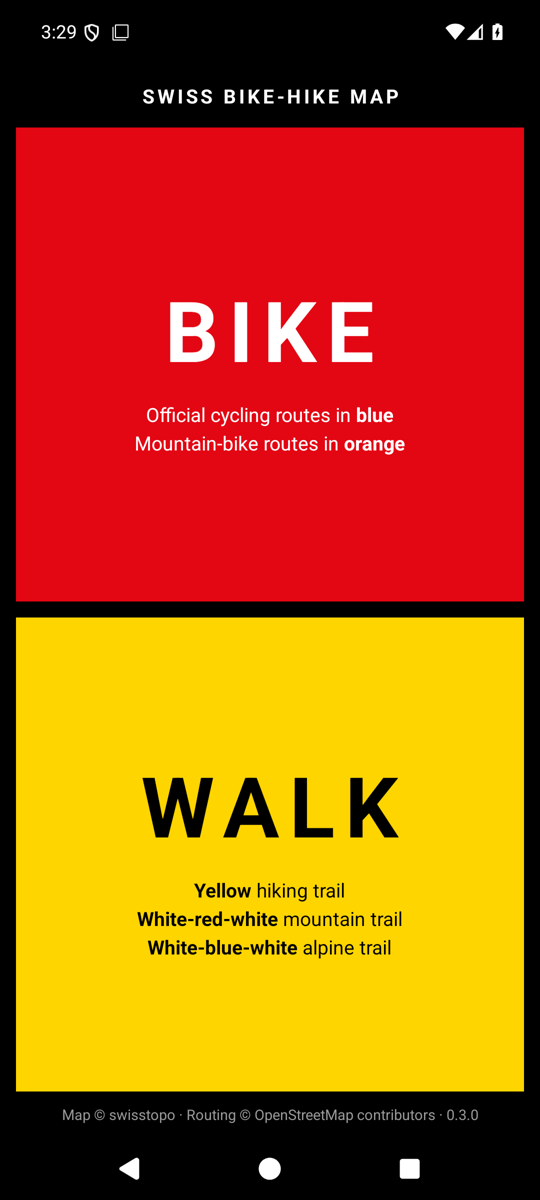
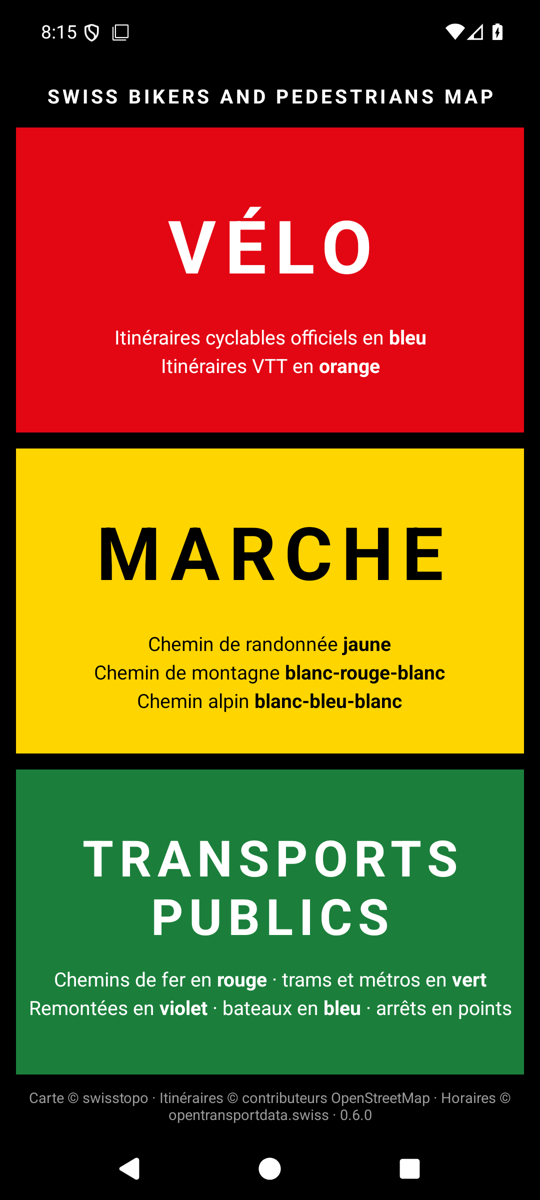
README: screenshots of the start screen, the transit map and its guidance

diff --git a/README.md b/README.md
@@ -87,4 +87,4 @@ Transport, converted by this repository.
 
 ## Screenshots
 
-<p><img src="docs/screenshot-1.png" width="240" alt="Start screen"> <img src="docs/screenshot-2.png" width="240" alt="Two stops and the elevation profile"> <img src="docs/screenshot-3.png" width="240" alt="Navigation at night"></p>
+<p><img src="docs/screenshot-1.png" width="240" alt="Start screen: bike, walk, public transport"> <img src="docs/screenshot-2.png" width="240" alt="Two stops and the elevation profile"> <img src="docs/screenshot-3.png" width="240" alt="Navigation at night"> <img src="docs/screenshot-4.png" width="240" alt="The transit map: railways, metro and stops"> <img src="docs/screenshot-5.png" width="240" alt="Public-transport guidance"></p>
